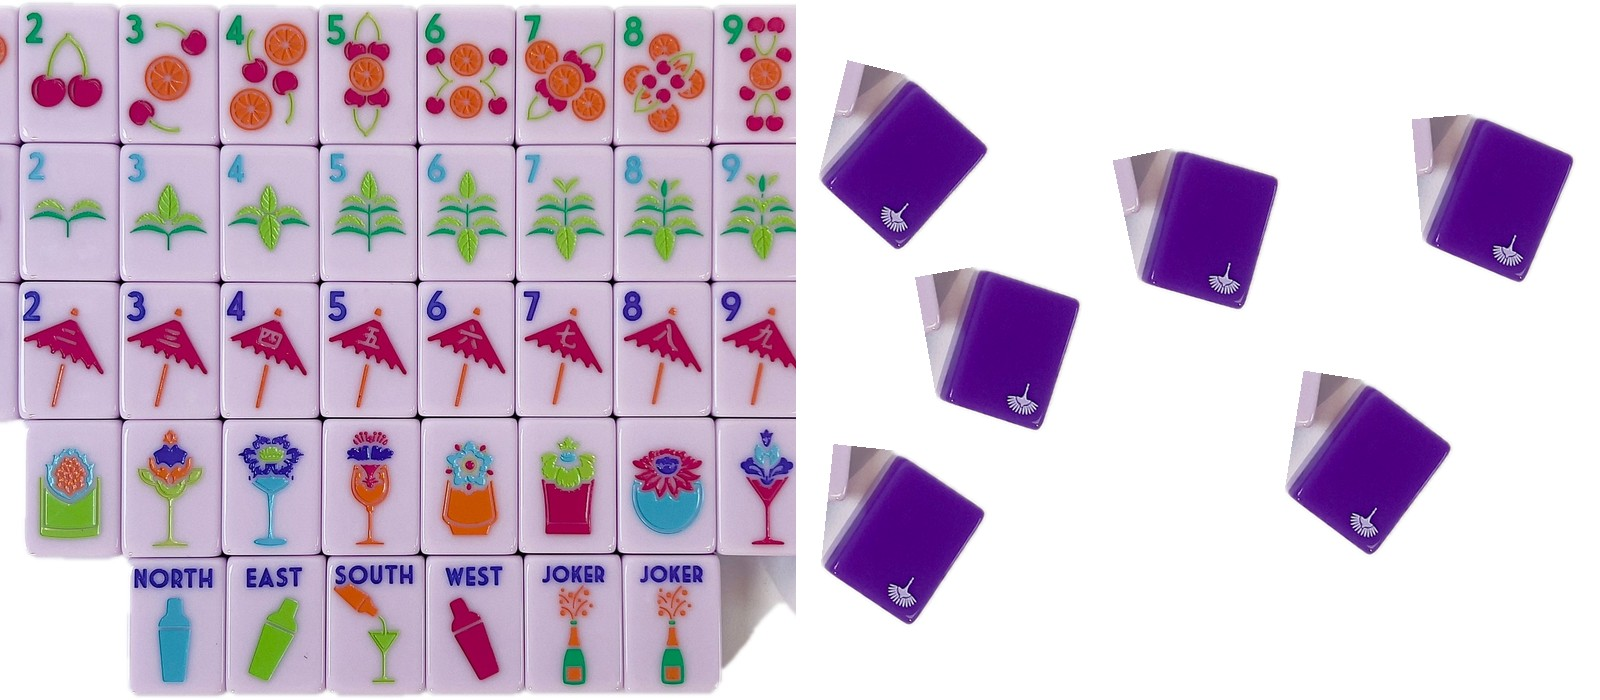
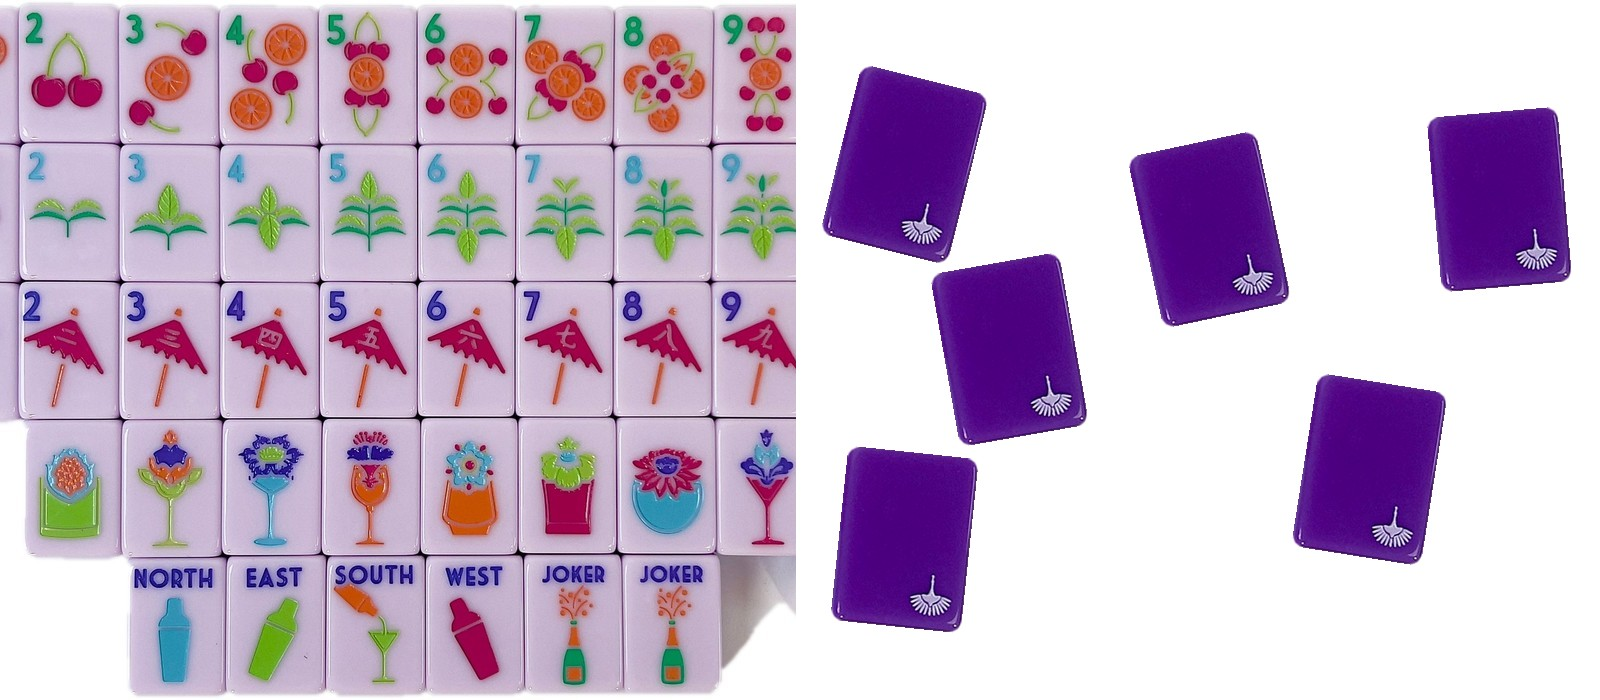
CMC Country/Cocktail/Yacht: straight-up back faces (no tile side showing), per Tiffany 8:52 rule
Claude-Session: https://claude.ai/code/session_01U7RfeJEDwDLRZnhiPmiFwy

Changed region(s): [[0.5, 0.09, 0.8125, 0.9], [0.875, 0.15, 1.0, 0.42], [0.7812, 0.51, 0.9062, 0.81]]

diff --git a/assets/tiles/v94-cmc-options/backface.py b/assets/tiles/v94-cmc-options/backface.py
@@ -1,0 +1,40 @@
+import sys;sys.path.insert(0,'.')
+import numpy as np, cv2
+from PIL import Image, ImageDraw, ImageFilter
+from build import box
+from seg2 import cutout
+def face(h,j):
+    im,b=box(h,j);o=cutout(f'hi/{h}_{j:02d}.jpg');bw=b[2]-b[0];bh=b[3]-b[1]
+    c=o.crop((int(b[0]-bw*.1),int(b[1]-bh*.1),int(b[2]+bw*.1),int(b[3]+bh*.1)))
+    a=np.asarray(c.convert('RGB')).astype(np.uint8);hsv=cv2.cvtColor(a,cv2.COLOR_RGB2HSV)
+    al=np.asarray(c)[...,3]
+    m=((hsv[...,1]>110)&(hsv[...,2]>60)&(al>128)).astype(np.uint8)
+    m=cv2.morphologyEx(m,cv2.MORPH_OPEN,np.ones((5,5),np.uint8))
+    n,lab,st,_=cv2.connectedComponentsWithStats(m);k=1+np.argmax(st[1:,4]);m=(lab==k).astype(np.uint8)
+    cnt,_=cv2.findContours(m,cv2.RETR_EXTERNAL,cv2.CHAIN_APPROX_SIMPLE);(cx,cy),(w,hh),ang=cv2.minAreaRect(cnt[0])
+    if w>hh: w,hh=hh,w;ang+=90
+    M=cv2.getRotationMatrix2D((cx,cy),ang,1);r=cv2.warpAffine(a,M,(a.shape[1],a.shape[0]),flags=cv2.INTER_CUBIC,borderValue=(255,255,255))
+    x0=int(cx-w/2+w*.05);x1=int(cx+w/2+w*.005);y0=int(cy-hh/2+hh*.02);y1=int(cy+hh/2+hh*.005)
+    f=Image.fromarray(r[y0:y1,x0:x1]).convert('RGBA')
+    mk=Image.new('L',f.size,0);ImageDraw.Draw(mk).rounded_rectangle((0,0,f.width-1,f.height-1),radius=int(f.width*.1),fill=255);f.putalpha(mk.filter(ImageFilter.GaussianBlur(1.2)))
+    return f
+if __name__=='__main__':
+    out=Image.new('RGB',(1200,500),'white');x=0
+    for h,j in [('the-country-club-edition',3),('cocktail-club-2-0',13),('the-yacht-club-edition',16)]:
+        f=face(h,j);f.save(f'face_{h}.png');g=f.resize((int(f.width*450/f.height),450));out.paste(g,(x,20),g);x+=g.width+40;print(h,f.size)
+    out.save('faces.jpg')
+    # compose the three sets with straight-up backs (same layout as approved Apres Ski)
+    from build import W, H, crops
+    for h,j in [('the-country-club-edition',3),('cocktail-club-2-0',13),('the-yacht-club-edition',16)]:
+        base=Image.open(f'opt/D_{h}.jpg').convert('RGBA');c=Image.new('RGBA',(W,H),(255,255,255,255));c.alpha_composite(base.crop((0,0,800,700)))
+        f=Image.open(f'face_{h}.png');bk=f.resize((int(f.width*175/f.height),175),Image.LANCZOS)
+        for cx,cy,a in [(905,165,-14),(1010,350,10),(905,540,-6),(1210,230,12),(1370,470,-9),(1500,200,5)]:
+            t=bk.rotate(a,expand=True,resample=Image.BICUBIC);c.alpha_composite(t,(int(cx-t.width/2),int(cy-t.height/2)))
+        ImageDraw.Draw(c).rectangle((796,0,803,700),fill=(255,255,255,255));c.convert('RGB').save(f'opt/E_{h}.jpg',quality=90)
+    rows=[]
+    for h in ['the-country-club-edition','cocktail-club-2-0','the-yacht-club-edition','the-hunt-club-edition','apres-ski-edition-tile-set']:
+        p=f'opt/E_{h}.jpg' if h in ('the-country-club-edition','cocktail-club-2-0','the-yacht-club-edition') else f'opt/D_{h}.jpg'
+        c=Image.open(p);s,cc,band=crops(c);r=Image.new('RGB',(900,290),'white');r.paste(s,(0,14));r.paste(cc,(620,14));rows.append(r)
+    S=Image.new('RGB',(900,290*5),'white')
+    for i,r in enumerate(rows):S.paste(r,(0,i*290))
+    S.save('cmc_all5.jpg',quality=88)
